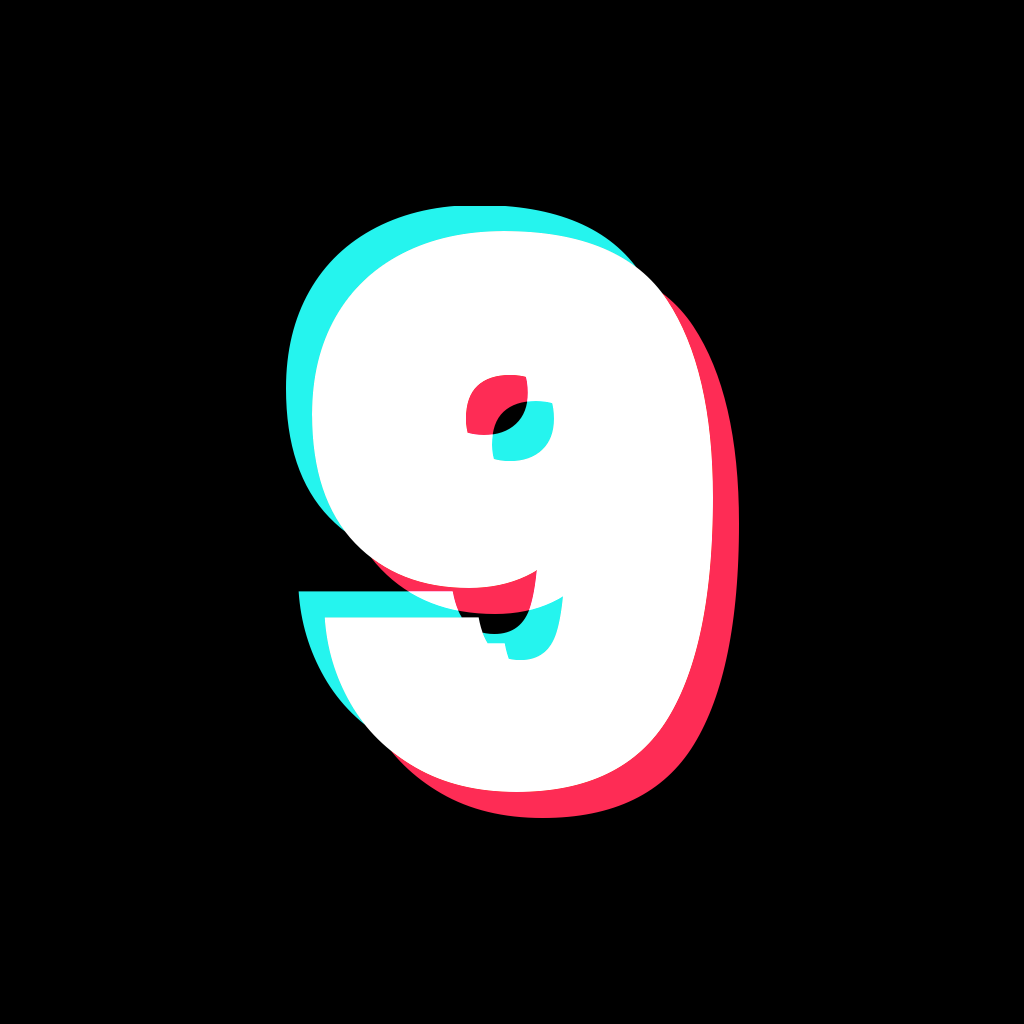
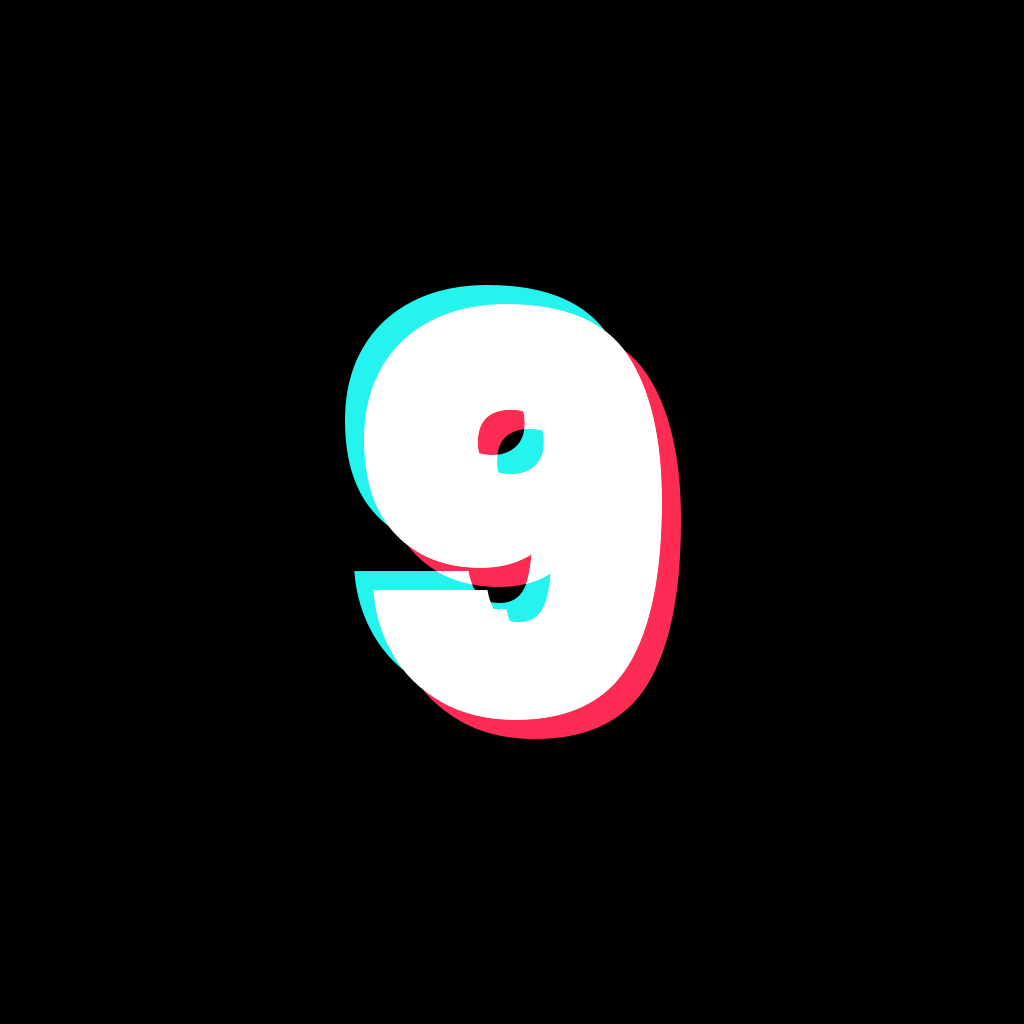
chore(branding): size the 9 like TikTok's note
The 9 and its shadows now fill 66.5% of the visible launcher icon, the share
TikTok's own note takes, instead of about 90%. assets/branding/make_icon.py
draws it.

Changed region(s): [[0.2812, 0.1875, 0.7188, 0.8125], [0.4375, 0.3438, 0.5625, 0.4688]]

diff --git a/patches/src/test/kotlin/app/morphe/MarketingHeroTest.kt b/patches/src/test/kotlin/app/morphe/MarketingHeroTest.kt
@@ -16,7 +16,7 @@ class MarketingHeroTest {
         val readme = File(root, "README.md").readText()
         assertTrue(readme.trimStart().startsWith("<p align=\"center\">"))
         assertTrue(readme.contains("assets/readme-header.png"))
[2 lines of base64/hex data omitted]
         for (name in listOf("patches-bundle.png", "assets/readme-header.png")) {
             assertArrayEquals(name, expected, MessageDigest.getInstance("SHA-256").digest(File(root, name).readBytes()))
         }

diff --git a/assets/branding/make_icon.py b/assets/branding/make_icon.py
@@ -1,0 +1,44 @@
+# Draws the NINE'tok launcher icon: a white "9" with TikTok-style cyan/red offset shadows on black.
+# Usage: python make_icon.py <font.ttf> <out.png>
+import sys
+from PIL import Image, ImageChops, ImageDraw, ImageFont
+
+SIZE = 1024
+CYAN = (37, 244, 238)
+RED = (254, 44, 85)
+# Launchers show the middle two thirds (683 px) of this layer. TikTok's note fills 66.5% of that
+# height, about 454 px, so the 9 with both shadows is sized to match it.
+OFFSET = 19          # shadow shift in px, like the note's split colors
+GLYPH_HEIGHT = 416
+
+
+def layer(font, color, dx, dy):
+    img = Image.new("RGB", (SIZE, SIZE), (0, 0, 0))
+    draw = ImageDraw.Draw(img)
+    left, top, right, bottom = draw.textbbox((0, 0), "9", font=font)
+    x = (SIZE - (right - left)) / 2 - left + dx
+    y = (SIZE - (bottom - top)) / 2 - top + dy
+    draw.text((x, y), "9", font=font, fill=color)
+    return img
+
+
+def main(font_path, out_path):
+    # Find the font size that makes the glyph GLYPH_HEIGHT tall.
+    size = 100
+    while True:
+        font = ImageFont.truetype(font_path, size)
+        left, top, right, bottom = ImageDraw.Draw(Image.new("RGB", (1, 1))).textbbox((0, 0), "9", font=font)
+        if bottom - top >= GLYPH_HEIGHT:
+            break
+        size += 4
+
+    cyan = layer(font, CYAN, -OFFSET, -OFFSET)
+    red = layer(font, RED, OFFSET, OFFSET)
+    icon = ImageChops.add(cyan, red)          # overlap turns near-white, as in the logo
+    white = layer(font, (255, 255, 255), 0, 0)
+    icon = ImageChops.lighter(icon, white)
+    icon.save(out_path)
+
+
+if __name__ == "__main__":
+    main(sys.argv[1], sys.argv[2])
